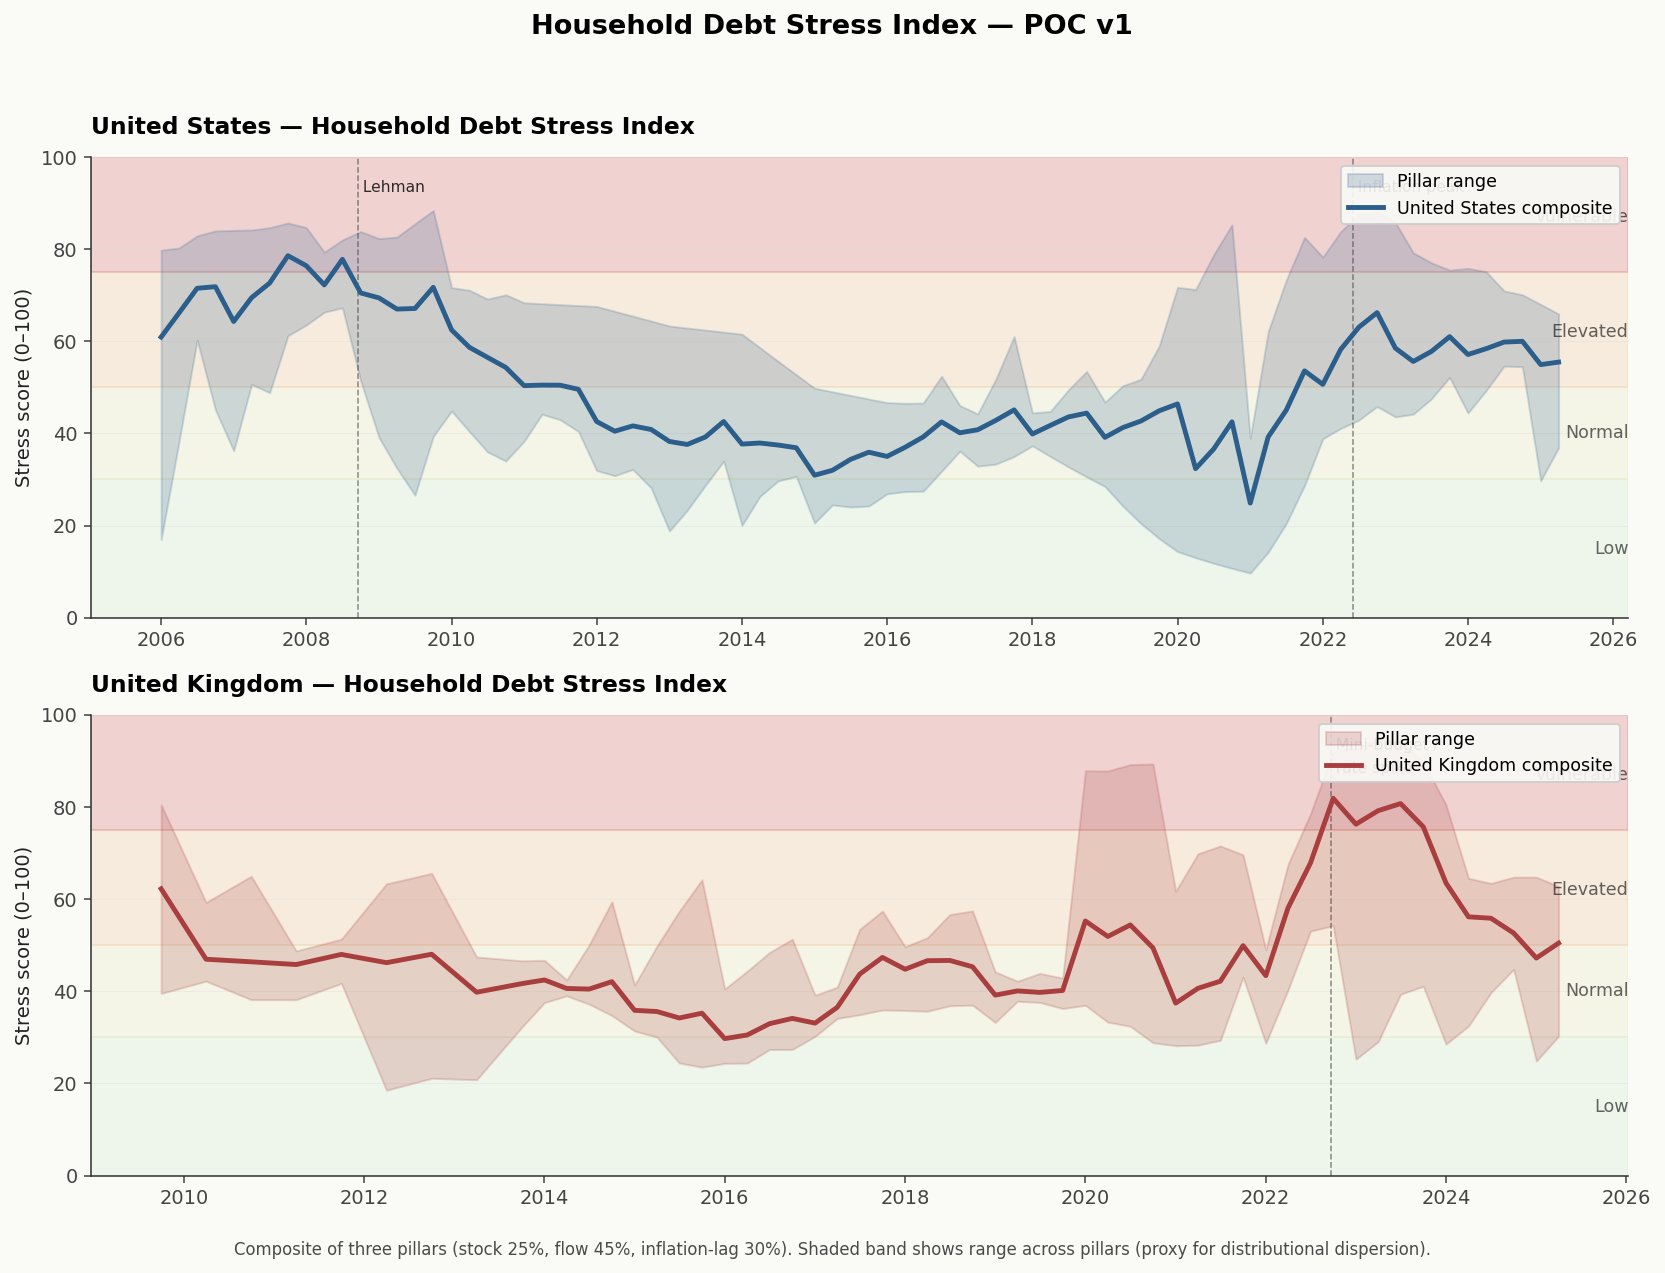
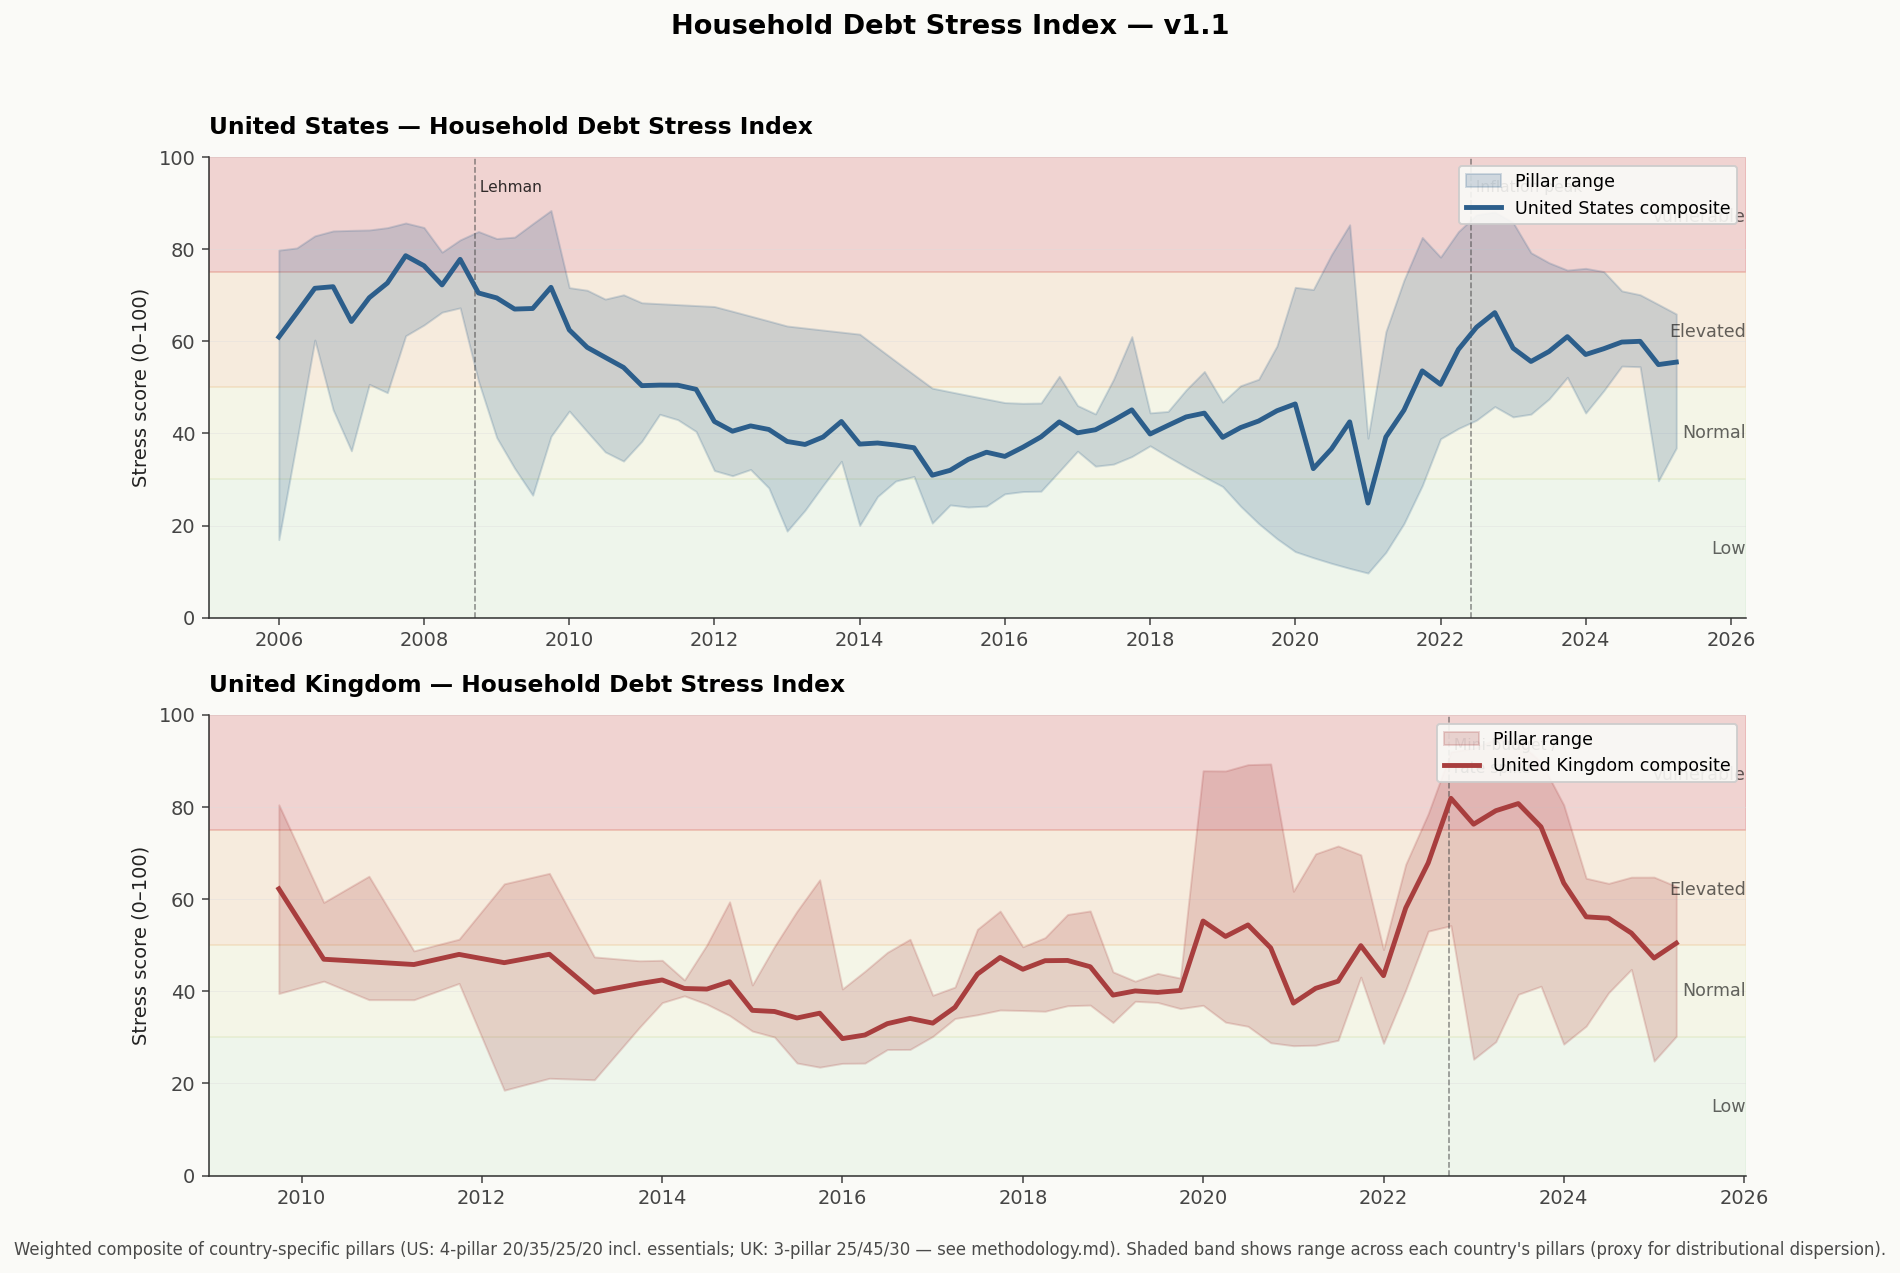
hdsi: address P4 review findings
Pre-PR fixes from the review subagent:

* visualise.py:107 — country-fans chart caption was hardcoded to
  "three pillars (stock 25%, flow 45%, inflation-lag 30%)" which is
  wrong now that US runs 4-pillar with 20/35/25/20 weights. Replaced
  with a generic caption that names both forms.

* methodology.md — Pillar 1 / Pillar 2 weight headings only showed
  the 3-pillar weights. Updated to "(20% in 4-pillar / 25% in 3-pillar)"
  and "(35% in 4-pillar / 45% in 3-pillar)" matching the P3 / P4
  treatment elsewhere in the same file.

* methodology.md — added an explicit interpolation caveat to the P4
  section. The 5y-change component compares forward-filled current
  values against linearly-interpolated past values; recent P4 trajectory
  is partly mechanical drift from interpolation, partly real signal.
  Level component is the cleaner read.

* methodology.md — backfill description was sloppy. Calling 15.3 (the
  post-recession 2009 peak) "conservative" was imprecise. Replaced with
  an explicit note that the backfill overstates pre-GFC essentials
  stress somewhat, with the trade-off rationale and the small composite
  impact at 2008-Q4 quantified.

* decisions.md — ADR-013 was an Open ADR placeholder in v1, never had
  a full body, and was effectively superseded by ADR-019. Cleaned up
  the dangling cross-references in the Status line and the Open ADRs
  list to refer to ADR-019b alone (with one historical mention in the
[…]

diff --git a/hdsi/src/visualise.py b/hdsi/src/visualise.py
@@ -104,11 +104,12 @@ def chart_country_fans(us, uk):
         add_zone_labels(ax)
         ax.legend(loc="upper right", framealpha=0.9, fontsize=9)
     
-    fig.suptitle("Household Debt Stress Index — POC v1", fontsize=14, fontweight="bold", y=0.995)
+    fig.suptitle("Household Debt Stress Index — v1.1", fontsize=14, fontweight="bold", y=0.995)
     fig.text(
         0.5, 0.01,
-        "Composite of three pillars (stock 25%, flow 45%, inflation-lag 30%). "
-        "Shaded band shows range across pillars (proxy for distributional dispersion).",
+        "Weighted composite of country-specific pillars "
+        "(US: 4-pillar 20/35/25/20 incl. essentials; UK: 3-pillar 25/45/30 — see methodology.md). "
+        "Shaded band shows range across each country's pillars (proxy for distributional dispersion).",
         ha="center", fontsize=8.5, alpha=0.7,
     )
     plt.tight_layout(rect=[0, 0.03, 1, 0.97])

diff --git a/hdsi/src/composite.py b/hdsi/src/composite.py
@@ -53,7 +53,7 @@ def build_composite(
 
     df = pd.concat(
         [p1[["p1"]], p2[["p2"]], p3[["p3"]]],
-        axis=1,
+        axis=1, sort=False,
     ).dropna()
 
     w1, w2, w3 = weights
@@ -86,7 +86,7 @@ def build_composite_4(
 
     df = pd.concat(
         [p1[["p1"]], p2[["p2"]], p3[["p3"]], p4[["p4"]]],
-        axis=1,
+        axis=1, sort=False,
     ).dropna()
 
     w1, w2, w3, w4 = weights

diff --git a/hdsi/docs/methodology.md b/hdsi/docs/methodology.md
@@ -8,7 +8,7 @@ HDSI is structured around three pillars that capture independent stress channels
 
 ## The three pillars
 
-### Pillar 1: Stock burden (25% weight)
+### Pillar 1: Stock burden (20% weight in 4-pillar form, 25% in 3-pillar)
 
 The level of household debt relative to economic capacity. Two components:
 - BIS-style credit gap: debt-to-GDP minus its HP-filtered trend (default)
@@ -36,7 +36,7 @@ Range of correlations narrows from 0.50 (level) to 0.09 (gap) for the US, and fr
 
 The legacy level form is preserved as opt-in: `python -m src.build_index --level` writes `*_composite_level.csv` outputs. Only useful for reproducing the original POC numbers.
 
-### Pillar 2: Flow burden (45% weight)
+### Pillar 2: Flow burden (35% weight in 4-pillar form, 45% in 3-pillar)
 
 Debt service as a share of disposable income. Two components:
 - DSR level
@@ -65,7 +65,9 @@ Share of households unable to cover essential outgoings — captures the distres
 - Essentials level (own-history z-scored)
 - 5-year change in essentials share
 
-**US**: Census Bureau Supplemental Poverty Measure (SPM), annual 2009-2024. A-grade. Pre-2009 quarters back-filled with the 2009 value (15.3) — conservative imputation that preserves the 2008-Q4 Lehman validation episode. 2025-Q1 forward-filled from the 2024 value pending Sep 2026 release. The 2020-21 stimulus trough (SPM 11.7 → 7.8 → 12.4 across 2019-2022) is real signal driven by the expanded Child Tax Credit and pandemic stimulus — will register as a noticeable P4 movement during the policy transition.
+**US**: Census Bureau Supplemental Poverty Measure (SPM), annual 2009-2024. A-grade. Pre-2009 quarters back-filled with the 2009 value (15.3) — note that this is the post-recession peak, so the backfill *overstates* pre-GFC essentials stress somewhat. The trade-off is intentional: it preserves the 2008-Q4 Lehman validation episode in the composite (P4 contributes ~13 of the 70.5 composite at Lehman) without introducing fabricated variance. Replacing this with the Columbia CPSP "anchored SPM" back-cast for 2006-2008 is queued as ADR-020. 2025-Q1 forward-filled from the 2024 value pending Sep 2026 SPM release. The 2020-21 stimulus trough (SPM 11.7 → 7.8 → 12.4 across 2019-2022) is real signal driven by the expanded Child Tax Credit and pandemic stimulus — will register as a noticeable P4 movement during the policy transition.
+
+**Interpolation caveat for the 5y-change component.** SPM publishes annually but the pillar consumes a quarterly series. Linear interpolation gives 60+ quarterly observations from 16 annual stamps, with the last few quarters being forward-fills of the 2024 value. The `pct_change(20)` 5y-change component is therefore comparing forward-filled 2024 against interpolated 2019-Q4 — partly real signal, partly mechanical drift from the interpolation chain. The recent climb in P4 (50.9 in 2023-Q1 → 65.0 in 2024-Q4) is concentrated in the change_score; the level component is approximately flat. **Don't over-interpret recent P4 trajectory.** The level component is the cleaner read.
 
 **UK**: deferred to v1.2. Citizens Advice National Red Index back-calculates only to FY2019/20, giving three usable observations — below the minimum for country-historical standardisation. Acquiring Joseph Rowntree Foundation Minimum Income Standard "below MIS" share for 2009-2018 will close the gap; until then UK runs on the 3-pillar (25/45/30) form. See `data/_p4_methodology_note.md` and ADR-019.
 

diff --git a/hdsi/docs/decisions.md b/hdsi/docs/decisions.md
@@ -269,16 +269,17 @@ The trade-off is that the tests don't tell you *why* something broke, only *that
 - US peak shifts slightly: was 81.0 at 2007-Q4 under 3-pillar; now 78.6 at 2007-Q4. Pre-GFC build-up still the historical peak.
 - 2020-21 SPM stimulus trough is real signal not artefact (expanded CTC + stimulus drove SPM from 11.7 → 7.8); will register as a noticeable P4 movement during the 2020-2022 transition. Documented per `data/_p4_methodology_note.md`.
 - UK composite is unchanged in v1.1 (still 3-pillar, weights 25/45/30, backwards-compatible with the v1 snapshot tests).
-- US 2006-2008 backfill is documented but synthetic. Replacing it with Columbia CPSP anchored-SPM is a TODO in the methodology note.
+- US 2006-2008 backfill is documented but synthetic. The flat 15.3 carry-back is the post-recession peak — it overstates pre-GFC essentials stress somewhat, but the composite impact at 2008-Q4 is small and it preserves the validation episode. Replacing with Columbia CPSP anchored-SPM is a TODO in the methodology note (ADR-020).
+- **Interpolation caveat for the 5y-change component.** SPM is annual; the pillar consumes a quarterly series via linear interpolation. The `pct_change(20)` 5y-change inside `build_pillar_4` is therefore comparing forward-filled current values against interpolated past values. The recent climb in P4 (50.9 in 2023-Q1 → 65.0 in 2024-Q4) is concentrated in the change_score; the level component is approximately flat. The level component is the cleaner read; recent P4 trajectory is partly artefact. Documented in methodology.md.
 - New CLI flag `--no-p4` reverts US to the 3-pillar form for reproducibility against the v1 snapshot. Combined with `--level`, reproduces the v0 POC numbers byte-for-byte.
 
-**Status.** US implemented in this change. UK opens ADR-013 as ADR-019b (UK Pillar 4 data acquisition + splice).
+**Status.** US implemented in this change. The UK portion of the original ADR-013 placeholder is split out as ADR-019b (UK Pillar 4 data acquisition + splice).
 
 ---
 
 ## Open ADRs (not yet resolved)
 
-- **ADR-013 / ADR-019b: UK Pillar 4 data acquisition + splice.** Acquire JRF MIS 2009-2018 annual values and CitA NRI underlying tables for 2020/21-2022/23. Apply the splice handling described in `data/_p4_methodology_note.md`. UK build will then move to 4-pillar weights (probably matching US 20/35/25/20, but worth confirming once UK P4 numbers are visible — the splice level-shift may justify a different weight).
+- **ADR-019b: UK Pillar 4 data acquisition + splice** (carved out of the original ADR-013 placeholder). Acquire JRF MIS 2009-2018 annual values and CitA NRI underlying tables for 2020/21-2022/23. Apply the splice handling described in `data/_p4_methodology_note.md`. UK build will then move to 4-pillar weights (probably matching US 20/35/25/20, but worth confirming once UK P4 numbers are visible — the splice level-shift may justify a different weight).
 - **ADR-014: Cross-country backtest.** Spain 2009, Iceland 2008, Korea 1997 are the obvious validation episodes. None implemented yet. Required before claiming the index generalises.
 - **ADR-015: UK Pillar 2 replacement.** Replace the proxy with BoE base rate × debt-to-income. Resolves ADR-007 properly.
 - **ADR-016: Weight robustness stress-test.** Per ADR-009, deferred until structural fixes land. Now substantially unblocked (ADR-017 + ADR-019); should run before any further weight changes.
